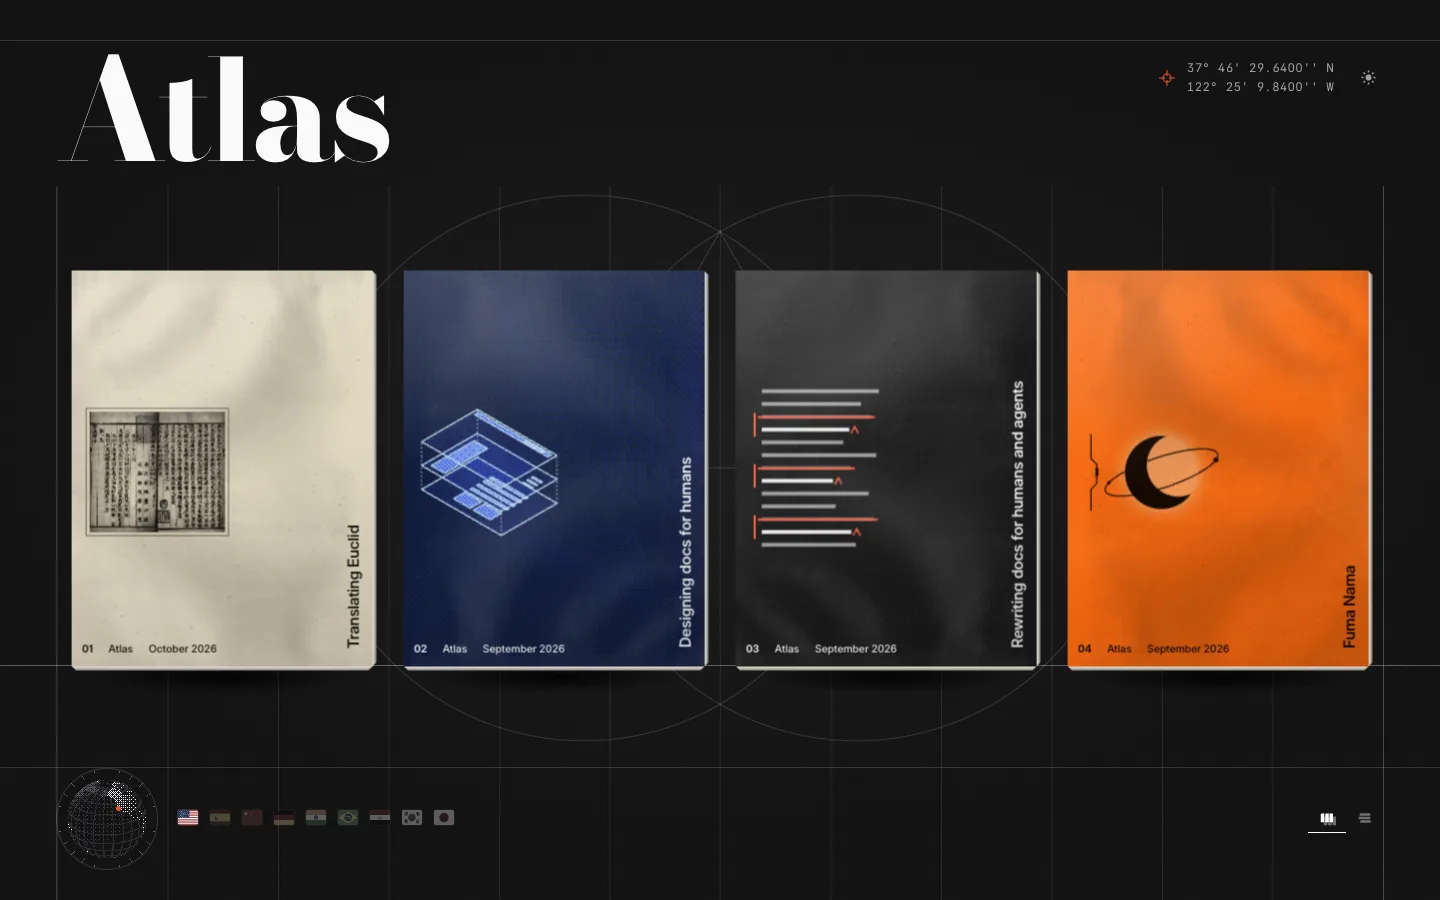
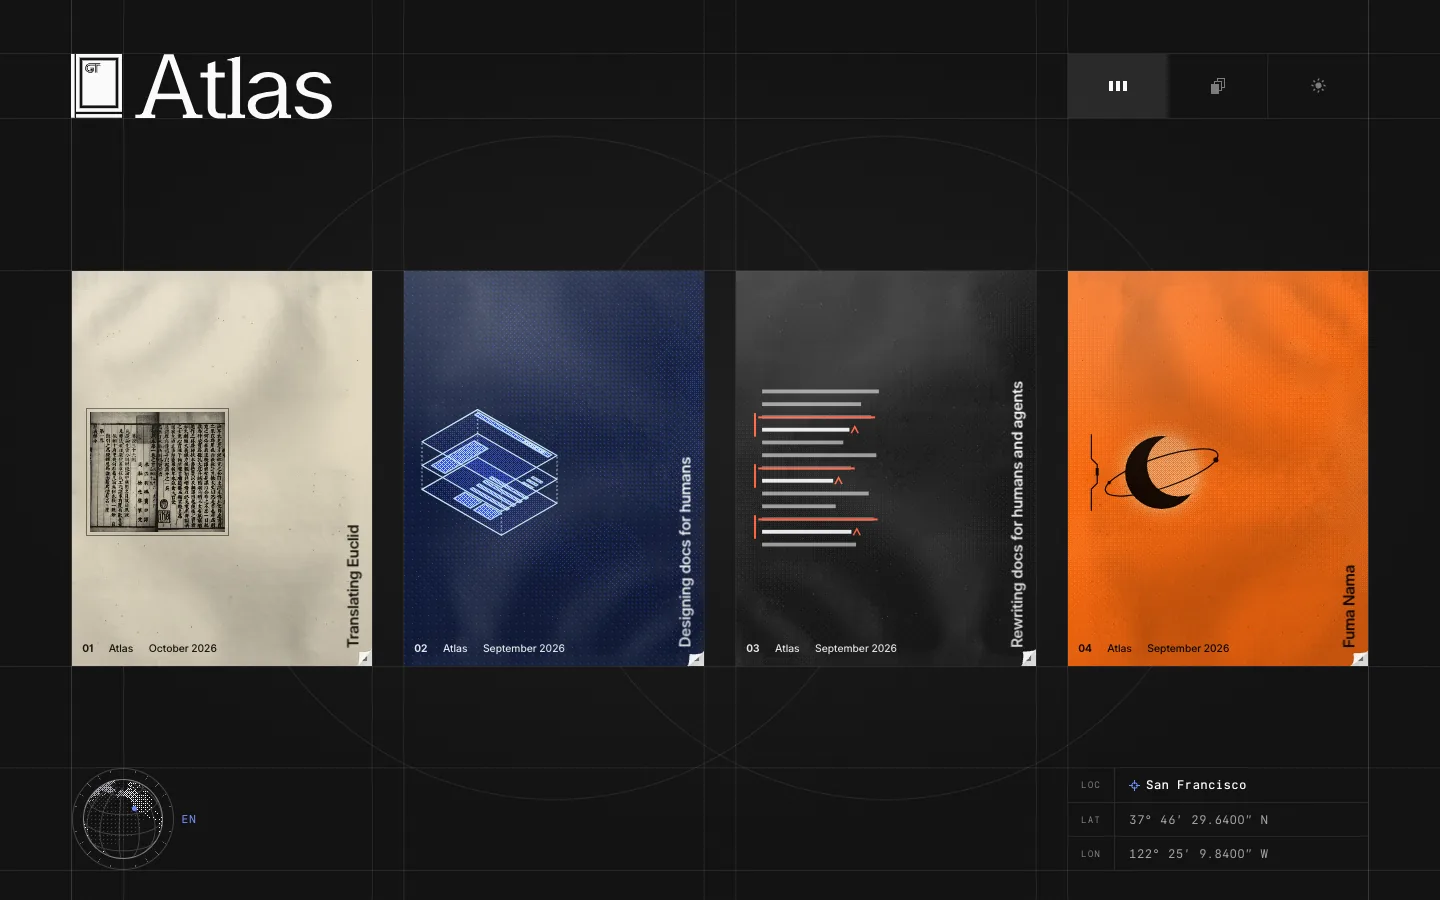
docs(atlas): the notes page shows the new rack, corner and magazine
The pictures from gt-cloud #5505: the front page in both themes and on a
phone, a lifted corner on its map sheet, and the magazine opened on that
sheet. The captions and prose follow what the pages do now.

diff --git a/src/app/atlas/notes/AtlasViewer.tsx b/src/app/atlas/notes/AtlasViewer.tsx
@@ -38,11 +38,15 @@ const PARTS: readonly Part[] = [
     body: [
       'A figure in Atlas can be live: the table of contents, the corner radii and the hit list from the docs essays are rebuilt in the page, so the reader can use what the paragraph describes.',
       'The first model was Stripe Press: a shelf of books, each with a cover designed for it. The magazine keeps a cover for every story and sets each one as a feature, with its own art, headline and colors.',
-      'General Translation translates software, so the magazine reads in nine languages. The flags under the shelf set every title in the reader’s language, and the globe shows a city where each language is spoken.',
+      'General Translation translates software, so the magazine reads in nine languages. The languages round the globe’s dial set every title in the reader’s language, and the globe shows a city where each language is spoken.',
       'A story takes its look from its subject. In the magazine each story’s colors and drawings come from what it is about; on the shelf, Fuma Nama’s profile was set in Fumadocs, the interface he made, and the history of Euclid’s Elements as a printed book.',
       'Atlas is one module, src/app/atlas/(magazine)/_atlas in Prototemplate, with its own type and colors, so gt-cloud’s Atlas app serves the same module at generaltranslation.com/atlas without the hub around it.',
     ],
-    figures: [{ src: '/shots/atlas/rack.webp', alt: 'The Atlas front page: four paper magazines in a row', caption: 'The front page. The magazine under the pointer lifts and leans toward it; a click opens the story.' }],
+    figures: [
+      { src: '/shots/atlas/rack.webp', alt: 'The Atlas front page in the dark theme: four magazines in a row over the layout guides, the nameplate at the top left, the globe and the city at the foot', caption: 'The front page in the dark theme. Each story is a magazine printed on its story’s stock; a click opens the story.' },
+      { src: '/shots/atlas/rack-light.webp', alt: 'The Atlas front page in the light theme: four magazines in a row over the layout guides', caption: 'The same front page in the light theme.' },
+      { src: '/shots/atlas/phone.webp', alt: 'The Atlas front page on a phone, 390px wide: Translating Euclid, with the edge of the next magazine at the right', caption: 'The front page at 390px wide: the first magazine, with the edge of the next at the right.', width: 390, height: 844 },
+    ],
   },
   {
     id: 'magazine',
@@ -51,11 +55,13 @@ const PARTS: readonly Part[] = [
     lead: 'Every story keeps its own layout and type (the docs reader, Fumadocs’ own look, the printed book) and takes the magazine’s text over them: a drop cap in the story’s own color (Euclid’s N cut out of a vermilion seal), the story’s mark over each section head, and its headline in its own hand. As in a New York Times story, the stage beside the text is the page’s own paper, the stage changes by itself as the reader reaches each figure, and a short scroll past each section brings it in as one slide.',
     body: [
       'The marks are drawn for each story. Euclid’s three sections open under the drawings of its three opening slides in turn (the first construction of Book I, Ricci’s road from Macau to Peking and the gougu figure), Designing docs under the docs page as stacked panels, Rewriting docs under a proofreader’s caret, and Fuma Nama under the line of a Fumadocs table of contents. Designing docs sets the people it is for in its color’s italics, and Rewriting docs sets “and agents” into its headline over a red caret. Euclid keeps Taylor Fang’s book and opens on her slides: the title page, then the epigraph, then the story.',
-      'On the front page each story is a thin magazine in the form of Riffle, the first of Taylor Fang’s directions, printed on the story’s own stock: its cover’s colors, marbling and design, with the folds, specks and grain of a scanned sheet over them, its name up the right edge in Katagami Text, and the folio at the foot. A click opens the story. Lifting a corner shows the inside page, a survey sheet of the story’s place drawn from the globe’s land at a dot to the degree in the magazine’s own colours, its legend and scale bar where the corner lifts (Ricci’s road from Macau to Peking for Euclid, Hong Kong for Fuma Nama, San Francisco for the docs essays), and a click on the lifted corner opens the magazine itself over the hall: a click on the right page turns it, a click on the left page turns it back, as do the arrows under it, each leaf one rigid sheet turned by the compositor in under half a second. The magazine holds the whole article, fetched as the corner lifts and set on a Swiss grid after a printed museum magazine: an opening spread of the story’s picture across the gutter over the headline and the deck, with a legend at its foot as a map’s (an inset map of the story’s place beside the issue, the byline and the date), then every paragraph, list and note in two columns with a drop cap under a running head and over a folio line, and each picture placed by its shape: to the edges over a band for its caption, on a page of its own inside the margins, in a band across the top of a page, in a whole column beside the text, or within a column. Every line is in Katagami Text and Katagami Serif. The front page is drawn over a layout sheet whose guides are measured from the page: each magazine’s sides and top, the horizon its leaves stand on, the nameplate’s cap height and baseline, and the globe’s centre, with Euclid’s first construction faint behind the middle magazines. The guides run the sheet’s full width and height in one ink, and grid references letter each magazine’s column and number the rows between them, as an atlas indexes a sheet. The nameplate takes its size from the globe’s dial, so the imprint’s right side and the globe’s centre stand on one guide. The nameplate is the book imprint drawn in lines of one weight, exactly as tall as the capitals, then Atlas in Katagami Serif at its regular weight, with the view and theme controls opposite it in the cell the guides draw there, three parts between hairlines; along the foot run the globe with the languages round its dial, the chosen one at its right (under the pointer the others stand out round it, and a pick turns the ring until the chosen one is at the right), and, in the cell between the lines over and under the globe, the city the reader is in with its coordinates, as the host’s edge reads it from their address (San Francisco until then, or where it cannot say).',
+      'On the front page each story is a thin magazine in the form of Riffle, the first of Taylor Fang’s directions, printed on the story’s own stock: its cover’s colors, marbling and design, with the folds, specks and grain of a scanned sheet over them, its name up the right edge in Katagami Text, and the folio at the foot. A click opens the story. The bottom right corner rests curled up and lifts under the pointer to show the inside page, a survey sheet of the story’s place drawn from the globe’s land at a dot to the degree in the magazine’s own colours, its legend and scale bar where the corner lifts (Ricci’s road from Macau to Peking for Euclid, Hong Kong for Fuma Nama, San Francisco for the docs essays), and a click on the lifted corner opens the magazine itself over the hall on that sheet, faced by the cover’s pale inside: a click on the right page turns it, a click on the left page turns it back, as do the arrows under it, each leaf one rigid sheet turned by the compositor in under half a second. After the map sheet the magazine holds the whole article, fetched as the corner lifts and set on a Swiss grid after a printed museum magazine: an opening spread of the story’s picture across the gutter over the headline and the deck, then every paragraph, list and note in two columns with a drop cap under a running head and over a folio line, and each picture placed by its shape: to the edges over a band for its caption, on a page of its own inside the margins, in a band across the top of a page, in a whole column beside the text, or within a column. The back cover holds a legend as a map’s: an inset map of the story’s place beside the issue, the byline and the date. Every line is in Katagami Text and Katagami Serif. The front page is drawn over a layout sheet whose guides are measured from the page: each magazine’s sides and top, the horizon its leaves stand on, the nameplate’s cap height and baseline, and the globe’s centre, with Euclid’s first construction faint behind the middle magazines. The guides run the sheet’s full width and height in one ink. The nameplate takes its size from the globe’s dial, so the imprint’s right side and the globe’s centre stand on one guide. The nameplate is the book imprint drawn in lines of one weight, exactly as tall as the capitals, then Atlas in Katagami Serif at its regular weight, with the view and theme controls opposite it in the cell the guides draw there, three parts between hairlines; along the foot run the globe with the languages round its dial, the chosen one at its right (under the pointer the others stand out round it, and a pick turns the ring until the chosen one is at the right), and, in the cell between the lines over and under the globe, the city the reader is in with its coordinates, as the host’s edge reads it from their address (San Francisco until then, or where it cannot say).',
       'The shelf, the direction before the magazine, is kept to explore: the same stories as hardcovers on one shelf, read in the same looks without the magazine’s text.',
     ],
     links: [{ label: 'The shelf', href: '/atlas/shelf', text: 'Atlas before the magazine: each story a book on one shelf, read in a look of its own.' }],
     figures: [
+      { src: '/shots/atlas/corner.webp', alt: 'The Atlas front page with the bottom right corner of Designing docs for humans lifted to show the legend of the map sheet inside', caption: 'Designing docs for humans with its bottom right corner lifted under the pointer, showing the legend of the map sheet printed inside.' },
+      { src: '/shots/atlas/magazine.webp', alt: 'Designing docs for humans opened on its first spread: the cover’s pale inside on the left, the map sheet of San Francisco on the right', caption: 'A click on the corner opens the magazine on that map sheet, faced by the cover’s pale inside.' },
       { src: '/shots/atlas/feature.webp', alt: 'Translating Euclid in the magazine: the opening paragraph with its drop cap beside the globe', caption: 'Translating Euclid in the magazine: Taylor Fang’s book with its Katagami Serif drop cap, and the globe on the stage beside it.' },
       { src: '/shots/atlas/shelf.webp', alt: 'The Atlas shelf: four books in a row, turned to show their spines', caption: 'The shelf, kept at /atlas/shelf. The book under the pointer turns to face the reader and lifts; a click opens the story.' },
     ],

diff --git a/src/lib/updated.ts b/src/lib/updated.ts
@@ -15,8 +15,8 @@ export const UPDATED: Readonly<Record<string, PageUpdated>> = {
   '/deck': { day: '2026-10-25', at: '2026-10-25T14:50:45-07:00', commit: 'def6b4c', src: '6b517bc6' },
   '/present': { day: '2026-10-25', at: '2026-10-25T14:50:45-07:00', commit: '6bfd798', src: '1849c182' },
   '/compare': { day: '2026-10-25', at: '2026-10-25T14:50:45-07:00', commit: '690f0b3', src: '1489450f' },
-  '/atlas': { day: '2026-10-26', at: '2026-10-26T12:37:31-07:00', commit: '84efb85', src: '7d295619' },
-  '/atlas/notes': { day: '2026-10-25', at: '2026-10-25T14:50:45-07:00', commit: 'f97ce05', src: '5479c97a' },
+  '/atlas': { day: '2026-10-26', at: '2026-10-26T12:37:38-07:00', commit: 'e9db26c', src: '7d295619' },
+  '/atlas/notes': { day: '2026-10-26', at: '2026-10-26T12:54:44-07:00', commit: '9c5292d', src: '5479c97a' },
   '/docs/get-started': { day: '2026-10-25', at: '2026-10-25T14:50:45-07:00', commit: '690f0b3', src: '1a2d9fc4' },
   '/docs/handbook/architecture': { day: '2026-10-25', at: '2026-10-25T14:50:46-07:00', commit: 'f74dc16', src: '0103d128' },
   '/docs/handbook/artifact-pictures': { day: '2026-10-25', at: '2026-10-25T14:50:45-07:00', commit: '690f0b3', src: 'e15b65c3' },

diff --git a/src/app/atlas/notes/page.tsx b/src/app/atlas/notes/page.tsx
@@ -9,7 +9,7 @@ const route = seoRoute({
   path: '/atlas/notes',
   title: PAGE_NAMES.atlas.name,
   kind: 'page',
-  description: 'Why General Translation publishes long writing as Atlas, a shelf of books, and the three looks a story is set in so far.',
+  description: 'Why General Translation publishes long writing as Atlas, a magazine with an issue for each story, and the three looks a story is set in so far.',
 });
 
 export const metadata = route.metadata;

diff --git a/src/app/atlas/notes/atlas.css b/src/app/atlas/notes/atlas.css
@@ -64,9 +64,10 @@
   gap: 8px;
 }
 
+/* Each capture at its own width (the img's width attribute) up to the column's: a 1440 capture fills the column, a phone stays 390px wide. */
 .an-fig img {
   display: block;
-  width: 100%;
+  max-width: 100%;
   height: auto;
   border: 1px solid var(--pt-hair);
   border-radius: var(--pt-radius-card);
